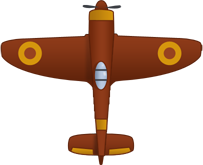
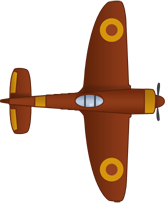
Basic flying mechanic

diff --git a/eventhandler.cpp b/eventhandler.cpp
@@ -14,7 +14,9 @@ EventHandler::EventHandler(std::vector<Island *> islands
     setFlag(QGraphicsItem::ItemIsFocusable);
     timer = new QTimer();
     connect(timer, SIGNAL(timeout()), this, SLOT(my_timer_slot()));
-    timer->start(1000/60);
+    int ms = 1000;
+    int fps = 60;
+    timer->start(ms/fps);
 
     this->islands = islands;
     this->player_character = player_character;
@@ -25,8 +27,12 @@ EventHandler::EventHandler(std::vector<Island *> islands
 }
 
 void EventHandler::my_timer_slot() {
-    if (!player_character_events)
-        qDebug() << "test";
+    if (!player_character_events) {
+        std::pair<int, int> pixels_to_move (MovingSpeed::x_speed, MovingSpeed::y_speed);
+        for(int i = 0; i < islands.size(); i++) {
+            islands[i]->move_island(pixels_to_move.first, pixels_to_move.second);
+        }
+    }
 }
 
 void EventHandler::keyPressEvent(QKeyEvent *event) {
@@ -34,6 +40,7 @@ void EventHandler::keyPressEvent(QKeyEvent *event) {
     if (player_character_events) {
         if (event->key() == Qt::Key_E && collision_with_plane) {
             player_character_events = false;
+            player_character->change_character_img(12);
             MovingSpeed::x_speed = 0;
             MovingSpeed::y_speed = 0;
 
@@ -63,17 +70,17 @@ void EventHandler::keyPressEvent(QKeyEvent *event) {
                     */
                 }
             }
+
+            player_character->player_animation(event);
+            player_character->change_character_img();
         }
-
-
-        player_character->player_animation(event);
-        player_character->change_character_img();
     }
     // player plane
     else {
         Island *plane_on_island = player_plane->plane_on_island(event, islands);
-        if (event->key() == Qt::Key_E && plane_on_island) { // && speed = 0
+        if (event->key() == Qt::Key_E && plane_on_island && MovingSpeed::x_speed == 0 && MovingSpeed::y_speed == 0) {
             player_character_events = true;
+            player_character->change_character_img(0);
             MovingSpeed::x_speed = 3;
             MovingSpeed::y_speed = 3;
             std::pair<int, int> pixels_to_move (15, -10);
@@ -81,6 +88,12 @@ void EventHandler::keyPressEvent(QKeyEvent *event) {
                 islands[i]->move_island(pixels_to_move.first, pixels_to_move.second);
             }
             player_plane->simple_movement(pixels_to_move.first, pixels_to_move.second);
+        }
+        else {
+            player_plane->change_power(event);
+            player_plane->rotate(event);
+            player_plane->set_up_current_speed();
+            player_plane->calculate_x_y_speed();
         }
     }
 

diff --git a/playerplane.cpp b/playerplane.cpp
@@ -3,9 +3,13 @@
 
 #include <QKeyEvent>
 #include <QDebug>
+#include <cmath>
 
 PlayerPlane::PlayerPlane(int x, int y) {
     current_index_of_plane_img = 0;
+    fuel = 0;
+    cargo = 0;
+    rotation_degree = 0;
 
     QPixmap plane_img;
     for (int i = 1; i <= 3; i++) {
@@ -56,4 +60,57 @@ Island* PlayerPlane::plane_on_island(QKeyEvent *event, std::vector<Island *> isl
         }
     }
     return NULL;
+}
+
+void PlayerPlane::change_power(QKeyEvent *event) {
+    if (event->key() == Qt::Key_W) {
+        if (MovingSpeed::current_power < 100)
+            MovingSpeed::current_power++;
+    }
+    else if (event->key() == Qt::Key_S) {
+        if (MovingSpeed::current_power > 0)
+            MovingSpeed::current_power--;
+    }
+}
+
+void PlayerPlane::rotate(QKeyEvent *event) {
+    int rotate = 0;
+    if (MovingSpeed::current_speed/MovingSpeed::division_factor_speed == 0)
+        rotate = 0;
+    else if (MovingSpeed::current_speed/MovingSpeed::division_factor_speed == 1)
+        rotate = 1;
+    else if (MovingSpeed::current_speed/MovingSpeed::division_factor_speed == 2)
+        rotate = 2;
+    else
+        rotate = 3;
+
+    if (event->key() == Qt::Key_A) {
+        rotation_degree -= rotate;
+    }
+    else if (event->key() == Qt::Key_D) {
+        rotation_degree += rotate;
+    }
+    item->setRotation(rotation_degree);
+}
+
+void PlayerPlane::set_up_current_speed() {
+    int current_power = MovingSpeed::current_power/MovingSpeed::division_power_factor_index;
+    if (current_power > 10 || current_power < 0)
+        return;
+
+    int max_speed = MovingSpeed::max_speed[current_power];
+
+    if (MovingSpeed::current_speed < max_speed)
+        MovingSpeed::current_speed++;
+    else if (MovingSpeed::current_speed > max_speed)
+        MovingSpeed::current_speed--;
+}
+
+void PlayerPlane::calculate_x_y_speed() { // naprawic wysiadanie z samolotu pod roznymi katami
+    float current_speed = MovingSpeed::current_speed;
+    float current_degree = rotation_degree;
+    const float pi = 3.14159265;
+
+    MovingSpeed::x_speed = -round(current_speed*cos(current_degree*pi/180.0)/MovingSpeed::division_factor_speed);
+    MovingSpeed::y_speed = -round(current_speed*sin(current_degree*pi/180.0)/MovingSpeed::division_factor_speed);
 }

diff --git a/playercharacter.cpp b/playercharacter.cpp
@@ -12,7 +12,7 @@ PlayerCharacter::PlayerCharacter(int x, int y) {
     delay_animation = 7;
 
     QPixmap player_img;
-    for (int i = 1; i <= 12; i++) {
+    for (int i = 1; i <= 13; i++) {
         QString location = "../smuggler/assets/player_character/player" + QString::number(i) + QString(".png");
         player_img.load(location);
         player_imgs.push_back(player_img);
@@ -69,8 +69,10 @@ void PlayerCharacter::change_current_index(int max_index, int min_index) {
     delay_animation_counter = 0;
 }
 
-void PlayerCharacter::change_character_img() {
-    player_item->setPixmap(player_imgs[current_index_of_player_img]);
+void PlayerCharacter::change_character_img(int index) {
+    if (index == -1)
+        index = current_index_of_player_img;
+    player_item->setPixmap(player_imgs[index]);
 }
 
 Island* PlayerCharacter::player_on_island(QKeyEvent *event, std::vector<Island *> islands) {

diff --git a/mainwindow.cpp b/mainwindow.cpp
@@ -59,14 +59,13 @@ MainWindow::MainWindow(QWidget *parent)
     player_character->player_item->setPos(WINDOW_WIDTH/2, WINDOW_HEIGHT/2);
 
     // player plane
-    x = islands[0]->island_item->x();
+    x = islands[0]->island_item->x() + 4;
     y = islands[0]->island_item->y() + 224;
     PlayerPlane *player_plane = new PlayerPlane(x, y);
     player_plane->item = Scene->addPixmap(player_plane->imgs[0]);
     player_plane->item->setShapeMode(QGraphicsPixmapItem::HeuristicMaskShape);
     player_plane->item->setPos(x, y);
     player_plane->item->setTransformOriginPoint(player_plane->imgs[0].width()/2, player_plane->imgs[0].height()/2);
-    player_plane->item->setRotation(qreal(90));
 
     // event handler
     EventHandler *eventHandler = new EventHandler(islands, player_character, player_plane);

diff --git a/movingspeed.cpp b/movingspeed.cpp
@@ -4,34 +4,21 @@
 int MovingSpeed::x_speed = 3;
 int MovingSpeed::y_speed = 3;
 
-int MovingSpeed::fuel = 0;
-int MovingSpeed::cargo = 0;
-
 int MovingSpeed::current_power = 0;
 int MovingSpeed::current_speed = 0;
-const int MovingSpeed::power[11] = {
-    0,
-    10,
-    20,
-    30,
-    40,
-    50,
-    60,
-    70,
-    80,
-    90,
-    100
-};
+
+const int MovingSpeed::division_power_factor_index = 10;
+const float MovingSpeed::division_factor_speed = 40;
 const int MovingSpeed::max_speed[11] = {
     0,
-    10,
-    20,
-    25,
-    30,
-    35,
-    40,
-    45,
-    50,
-    55,
-    60
+    60,
+    120,
+    180,
+    240,
+    300,
+    360,
+    420,
+    480,
+    540,
+    600
 };

diff --git a/playerplane.h b/playerplane.h
@@ -13,11 +13,18 @@ public:
     std::vector<QPixmap> imgs;
     int current_index_of_plane_img;
     QGraphicsPixmapItem *item;
+    int rotation_degree;
+    int fuel;
+    int cargo;
 
     void simple_movement_event(QKeyEvent *event, int x_speed = MovingSpeed::x_speed, int y_speed = MovingSpeed::y_speed);
     void simple_movement(int x_speed, int y_speed);
     std::pair<int, int> center_plane_on_screen(PlayerCharacter *player_character);
     Island* plane_on_island(QKeyEvent *event, std::vector<Island *> islands);
+    void change_power(QKeyEvent *event);
+    void rotate(QKeyEvent *event);
+    void set_up_current_speed();
+    void calculate_x_y_speed();
 };
 
 #endif // PLAYERPLANE_H

diff --git a/playercharacter.h b/playercharacter.h
@@ -22,7 +22,7 @@ public:
 
 
     void player_animation(QKeyEvent *event);
-    void change_character_img();
+    void change_character_img(int index = -1);
     void change_current_index(int max_index, int min_index);
     Island* player_on_island(QKeyEvent *event, std::vector<Island *> islands);
     InteractiveObject* collision_with_island_objects(QKeyEvent *event, Island* player_island);

diff --git a/movingspeed.h b/movingspeed.h
@@ -8,12 +8,11 @@ public:
     static int x_speed;
     static int y_speed;
 
-    static int fuel;
-    static int cargo;
-
     static int current_power;
     static int current_speed;
-    const static int power[];
+
+    const static int division_power_factor_index;
+    const static float division_factor_speed;
     const static int max_speed[];
 };
 
